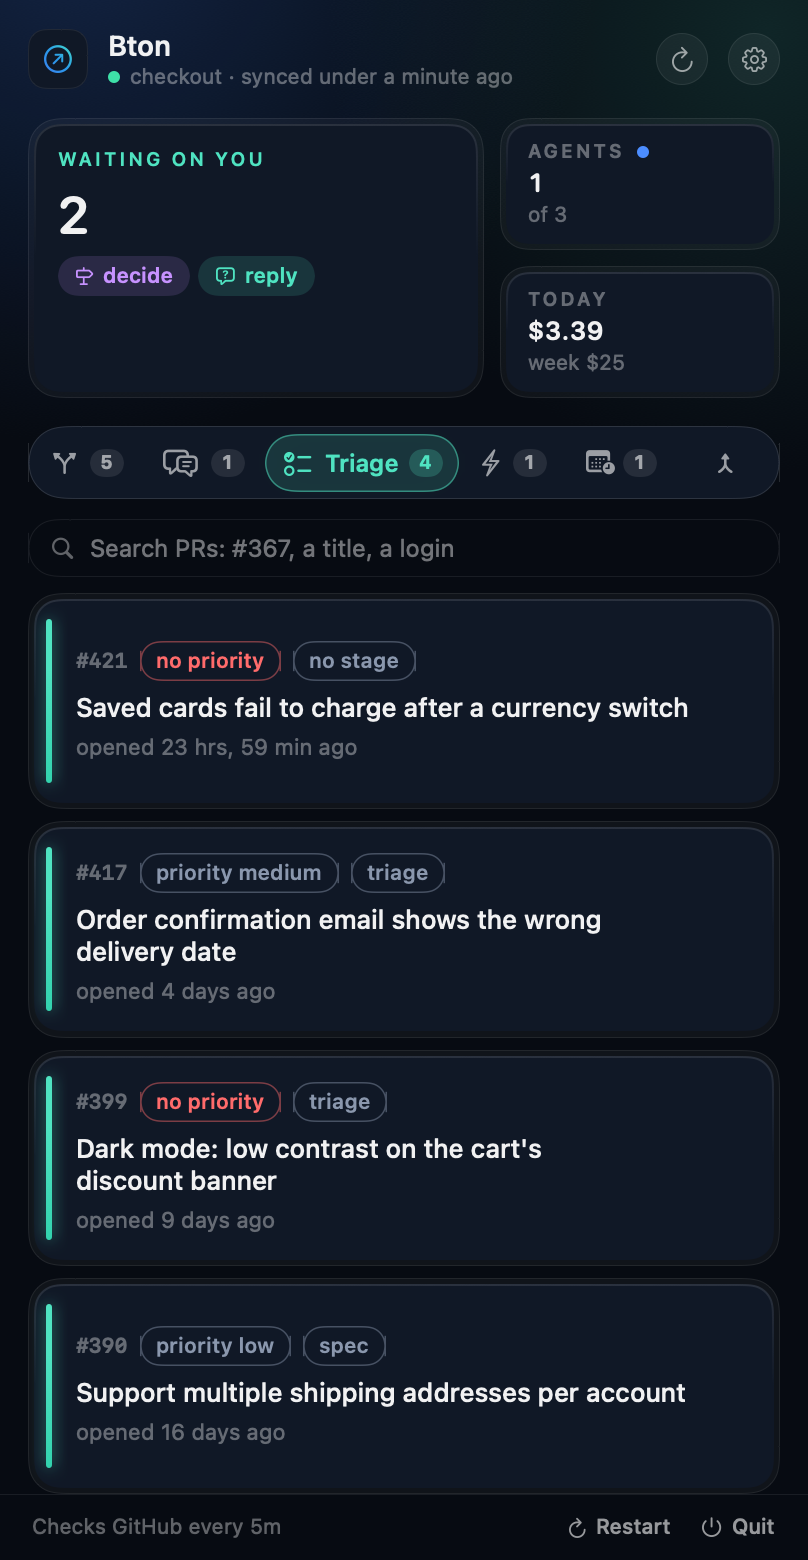
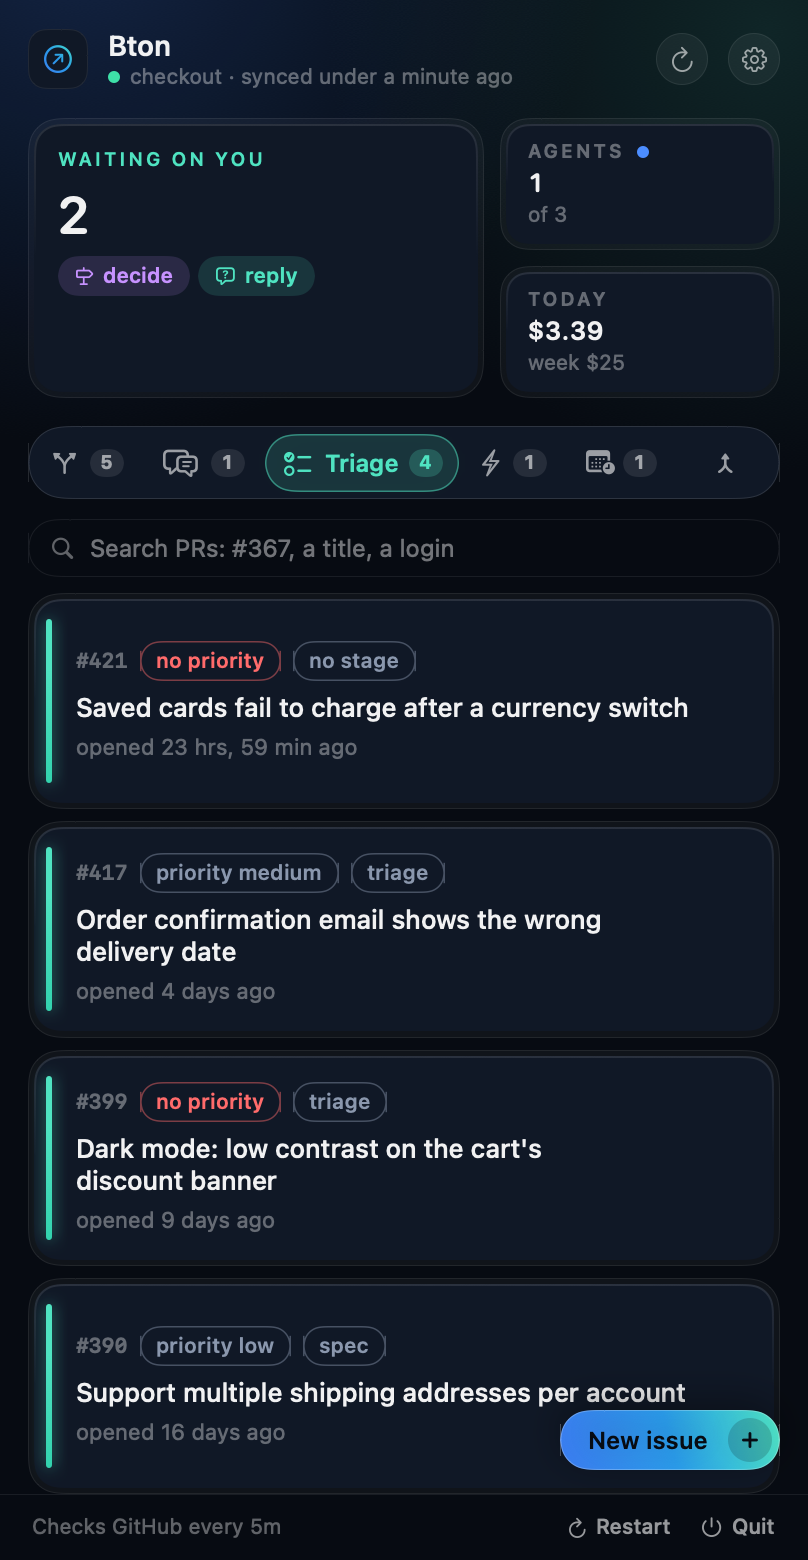
feat: New issue floats at the bottom right of the Triage list, and CLAUDE.md records the rule for list actions

Changed region(s): [[0.6807, 0.8923, 0.9592, 0.9538]]

diff --git a/Sources/Bton/Components.swift b/Sources/Bton/Components.swift
@@ -337,6 +337,20 @@ struct IconButton: View {
     }
 }
 
+extension View {
+    /// A list's main action (New issue): floats at the bottom right over the list, never in a bar
+    /// above it. The list scrolls clear of it, so its last row is never covered.
+    func floatingAction(title: String, symbol: String, disabled: Bool = false, action: @escaping () -> Void) -> some View {
+        contentMargins(.bottom, 64, for: .scrollContent)
+            .overlay(alignment: .bottomTrailing) {
+                PillButton(title: title, symbol: symbol, disabled: disabled, action: action)
+                    .shadow(color: .black.opacity(0.35), radius: 10, y: 4)
+                    .padding(.trailing, 14)
+                    .padding(.bottom, 12)
+            }
+    }
+}
+
 /// A pill button with its trailing icon in a disc of its own, flush with the right edge.
 struct PillButton: View {
     let title: String

diff --git a/Sources/Bton/TriageList.swift b/Sources/Bton/TriageList.swift
@@ -21,12 +21,7 @@ struct TriageList: View {
     let newIssue: () -> Void
 
     var body: some View {
-        VStack(spacing: 8) {
-            HStack {
-                Spacer()
-                PillButton(title: "New issue", symbol: "plus", prominent: false, action: newIssue)
-            }
-            .padding(.horizontal, 14)
+        Group {
             if issues.isEmpty {
                 EmptyState(symbol: "checklist", title: store.lastRefresh == nil ? "Reading GitHub" : "Nothing to triage",
                            detail: "Open issues that are not stage:ready, in progress or in review show here.")
@@ -36,6 +31,7 @@ struct TriageList: View {
                 }
             }
         }
+        .floatingAction(title: "New issue", symbol: "plus", action: newIssue)
     }
 }
 

diff --git a/CLAUDE.md b/CLAUDE.md
@@ -1,0 +1,6 @@
+# Bton: project rules
+
+UI:
+- A list's main action (New issue, and any like it) floats at the bottom right over the list with
+  `.floatingAction(...)` (Components.swift): never a button in a row or bar above the list. Actions
+  inside a form or a conversation (Send, Create issue, Apply) stay in the footer under their content.
